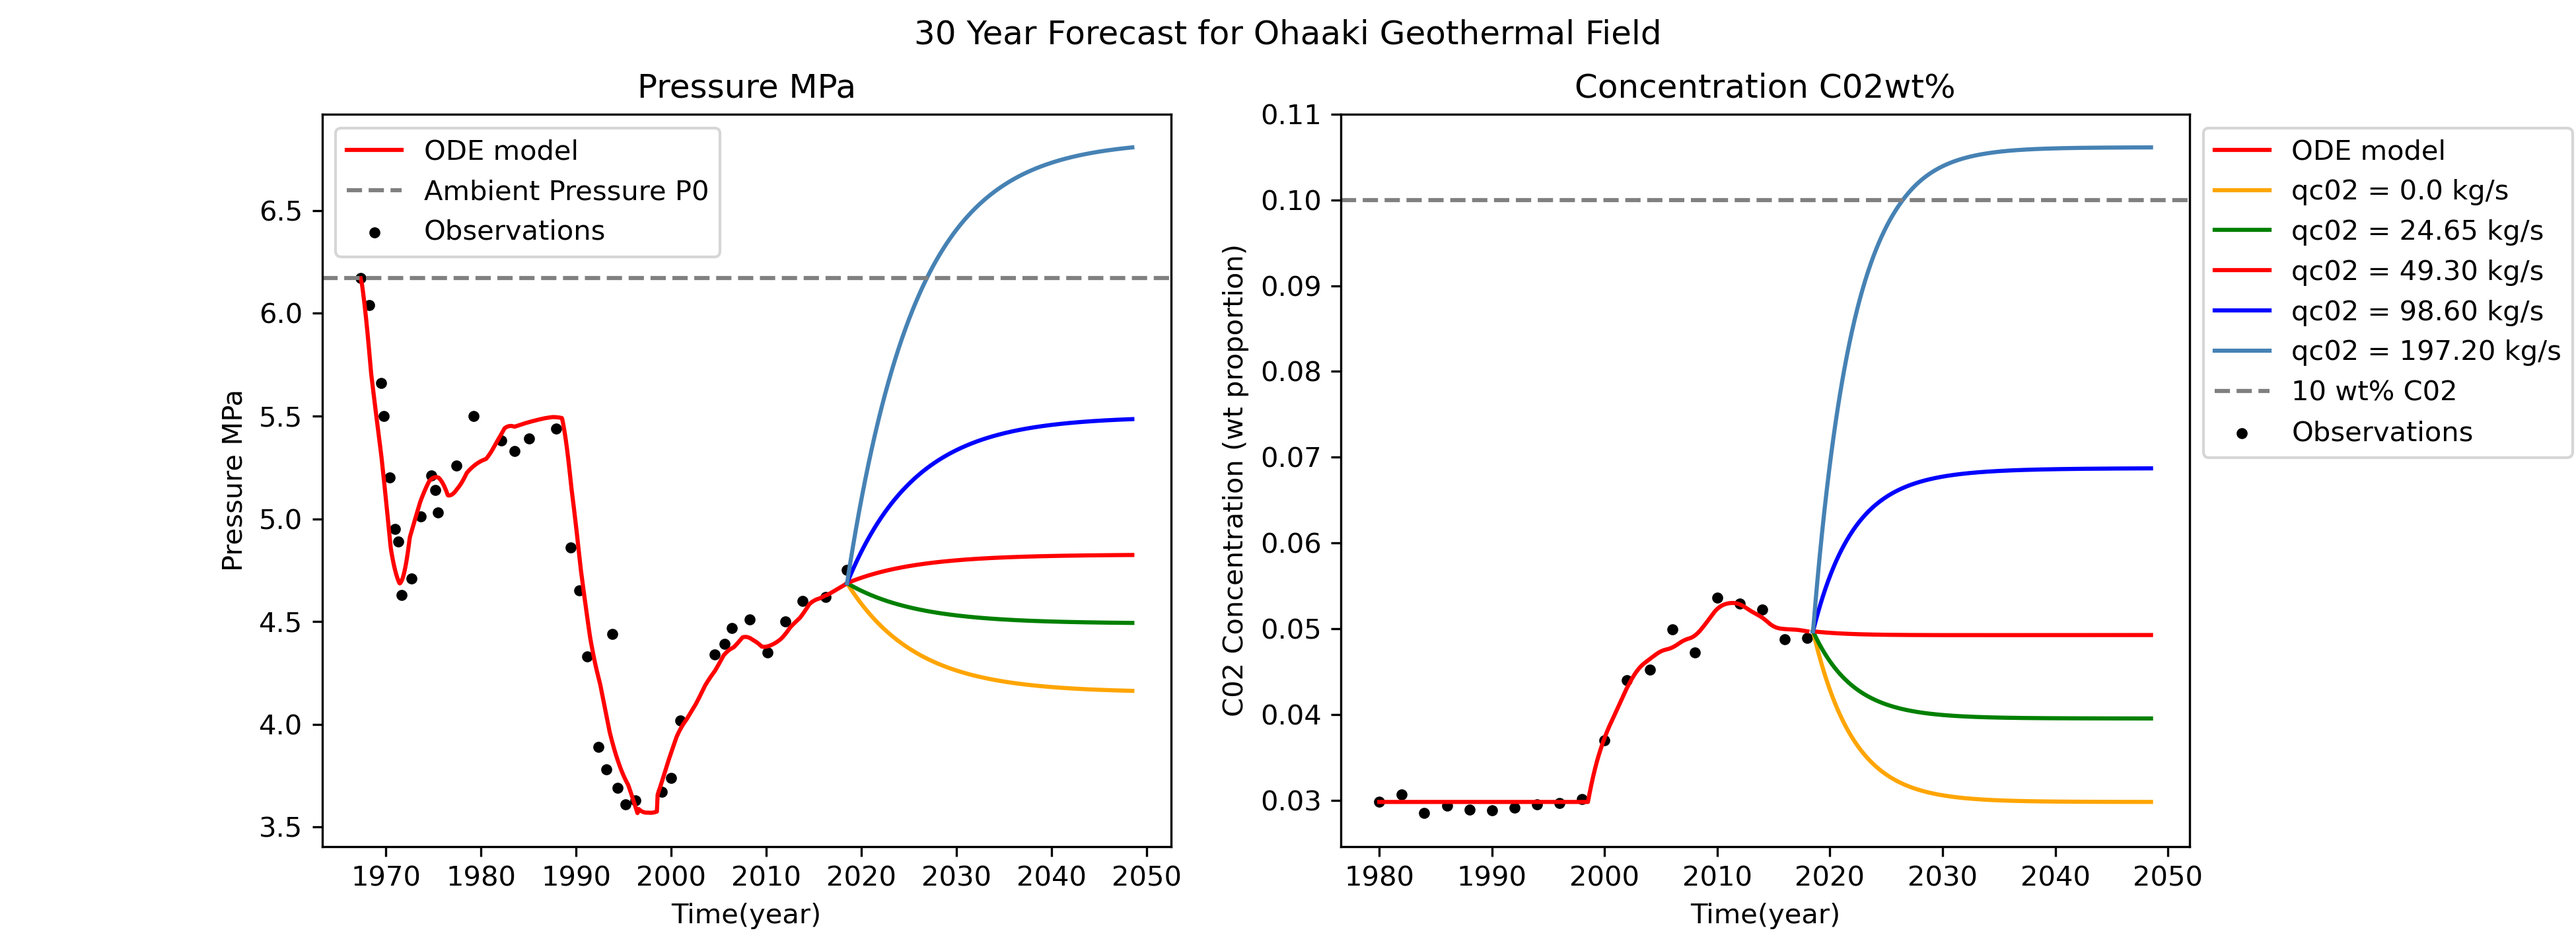
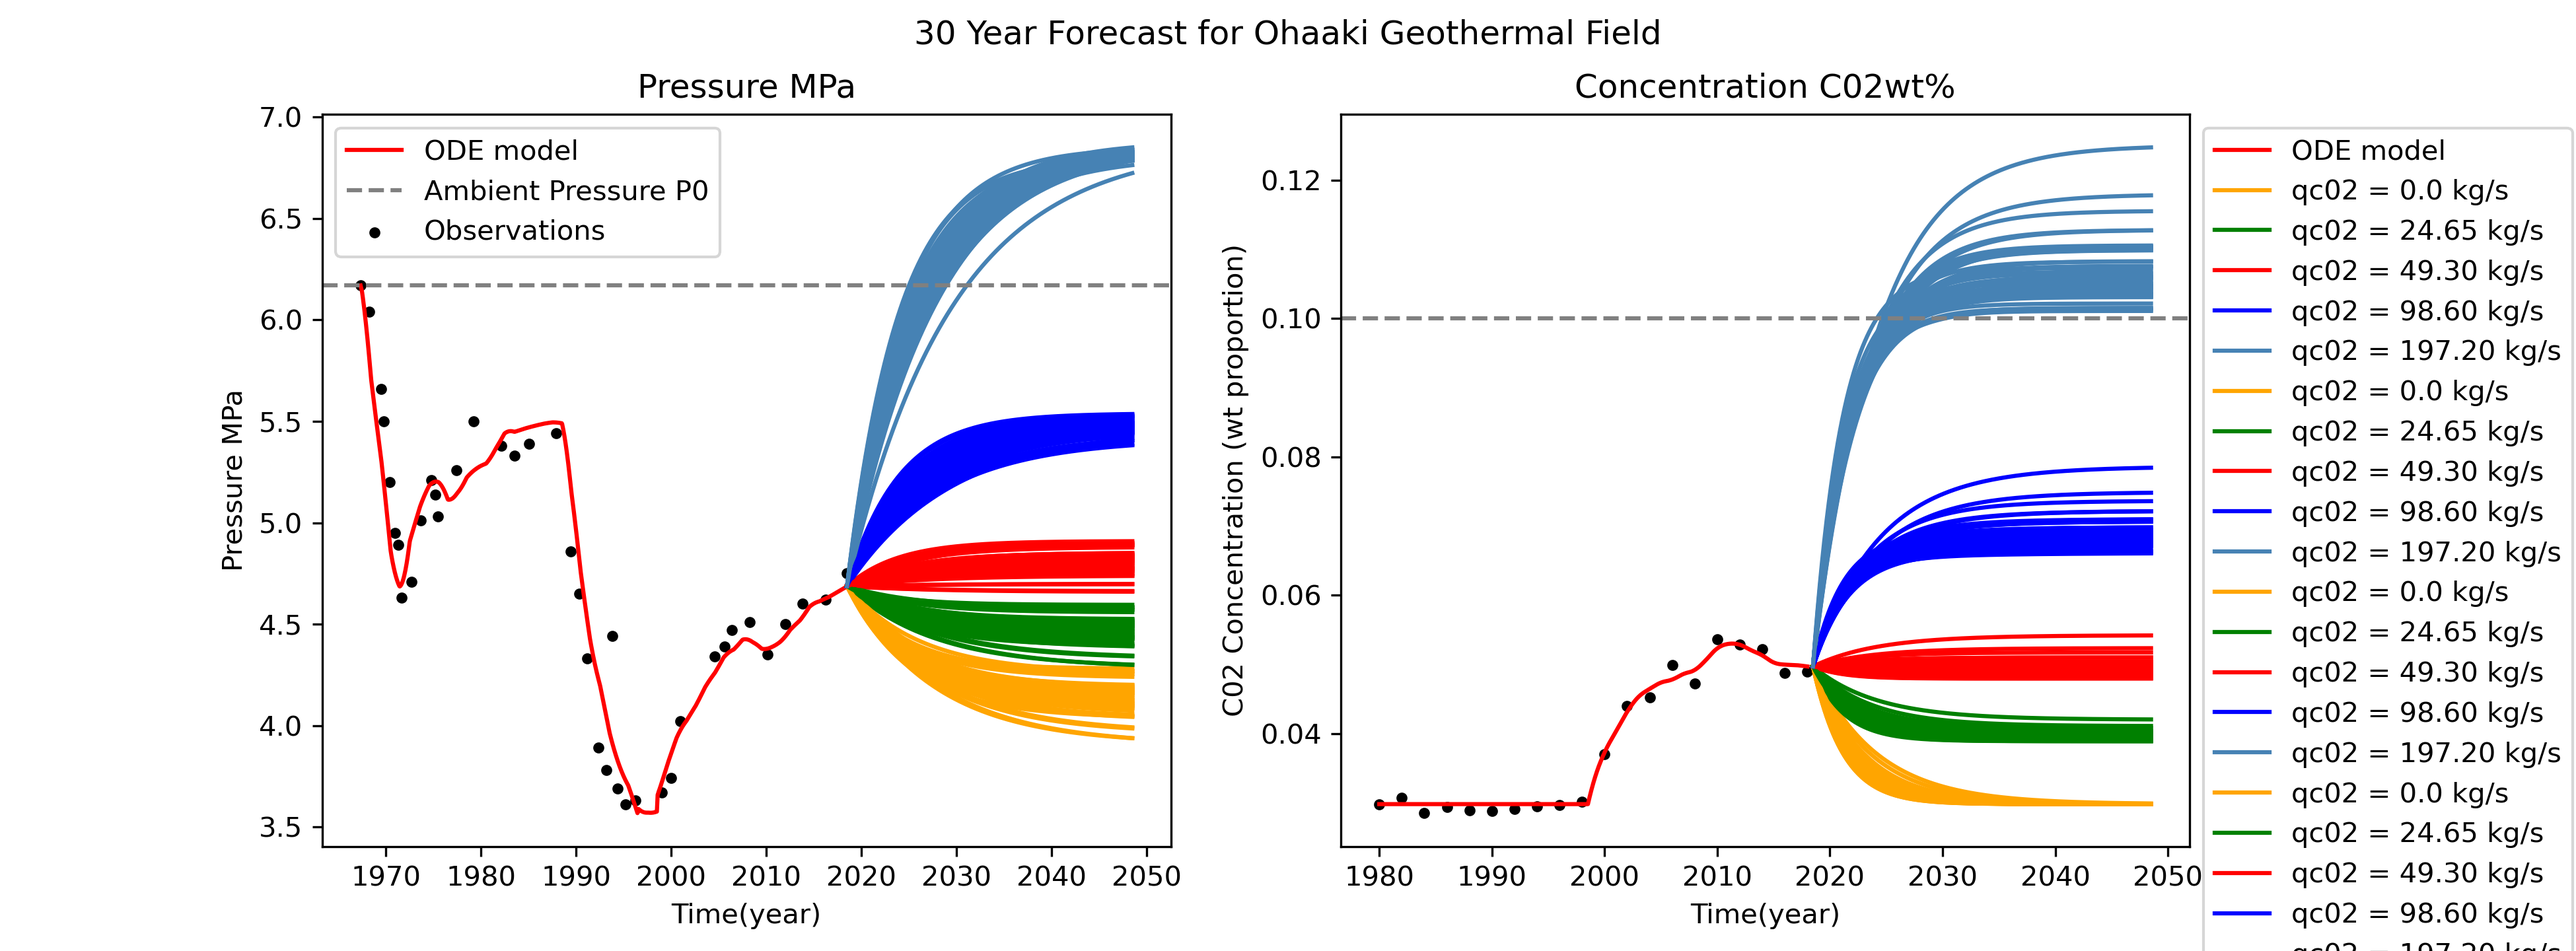
Added first uncertanity forecasting

diff --git a/project_1/uncertainty.py b/project_1/uncertainty.py
@@ -101,6 +101,11 @@ def construct_samples_conc(d,m0, C, N_samples):
     #plot_samples3D(a,b,c,P,samples)
 
     return samples
+def construct_all_samples(N_samples):
+    samples_conc = np.random.multivariate_normal(mean_conc, conc_covar, N_samples)
+    samples_p = np.random.multivariate_normal(mean, covariance, N_samples)
+    samples = np.append(samples_conc, samples_p, 1)
+    return samples
 
 def model_emsemble_pressure(samples):
 
@@ -216,7 +221,7 @@ def forecast_ensemble(samples):
     tc_ode, c_ode = solve_conc_ode(conc_ODE_model, TIME_C[0], CONC[0], TIME_C[-1], STEP, PRESSURE[0], PARS_C)
     p2, = ax2.plot(tc_ode, c_ode, color = 'r', label = "ODE model")
     ax2.scatter(TIME_C, CONC, color = 'k', s= 9, label ="Observations")
-    
+
     # Set up paramters for forecast
     endTime = TIME_P[-1] + 30                     # 30 years projection
     nt = int(np.ceil((endTime-TIME_P[-1])/STEP))	# compute number of Euler steps to take
@@ -231,14 +236,15 @@ def forecast_ensemble(samples):
     injRates = [0., 0.5, 1., 2., 4.] #different injection rate multipliers
     colours = ['orange', 'green', 'red', 'blue', 'slategrey'] #for graph
     labels = ['qc02 = 0.0 kg/s', 'qc02 = %.2f kg/s',  'qc02 = %.2f kg/s ','qc02 = %.2f kg/s ','qc02 = %.2f kg/s'] #for graph
-    
-    for i in range(len(injRates)):
-        for a, b, c in samples:
-            q_net = q_prod[-1] - (q_inj[-1])*injRates[i]
-            q_newInj = (q_inj[-1])*injRates[i]
-            t, p, co2 = get_p_conc_forecast(ts, [a,b,d,m0], [a,b,c], p_ode[-1], c_ode[-1], q_net, q_newInj)
-            ax1.plot(t, p, color=colours[i], alpha=0.1)
-            ax2.plot(t, co2, color=colours[i], alpha=0.1)
+    for d, m0, a, b, c in samples:
+        pars_c = [a,b,d,m0]
+        pars_p = [a,b, c]
+        for i in range(len(injRates)):
+                q_net = q_prod[-1] - (q_inj[-1])*injRates[i]
+                q_newInj = (q_inj[-1])*injRates[i]
+                t, p, co2 = get_p_conc_forecast(ts, [a,b,d,m0], [a,b,c], p_ode[-1], c_ode[-1], q_net, q_newInj)
+                ax1.plot(t, p, color=colours[i], alpha=0.1)
+                ax2.plot(t, co2, color=colours[i], alpha=0.1)
 
     ax2.axhline(0.10, linestyle = "--", color = 'crimson', label = '10 wt% C02' )    #ax1.axvline(t_ode[calibrationPointP], linestyle = '--', label = 'Calibration Point')
     ax1.axhline(PRESSURE[0], linestyle = "--", color = 'orange', label = 'Ambient Pressure P0')
@@ -254,21 +260,15 @@ if __name__ == "__main__":
 
 
     a,b,c,P = grid_search()
-<<<<<<< HEAD
     d, m0, C = grid_search_conc()
     samples_pressure = construct_samples_pressure(a,b,c,P,100)
     #model_emsemble_pressure(samples_pressure)
     samples_conc = construct_samples_conc(d,m0,C,100)
 
-=======
-    samples = construct_samples(a,b,c,P,50)
-    model_emsemble(samples)
-    forecast_ensemble(samples)
-    
->>>>>>> bc33768d063f1d9f536aaf9e01e4d6320639bd2e
+
+
 
     samples = np.append(samples_conc, samples_pressure, 1)
 
-    print(samples)
     #model_emsemble_concentration(samples)
     model_emsemble_forecast(samples)

diff --git a/project_1/plot_lpm.py b/project_1/plot_lpm.py
@@ -8,6 +8,7 @@ from load_data import *
 from lpm_model_functions import *
 from mpl_toolkits.mplot3d import Axes3D
 from matplotlib import cm
+from uncertainty import *
 
 ## Define global Variables
 TIME_P, PRESSURE = load_pressure_data()
@@ -465,13 +466,16 @@ def plot_uncertainty_forecast():
     injRates = [0., 0.5, 1., 2., 4.] #different injection rate multipliers
     colours = ['orange', 'green', 'red', 'blue', 'steelblue'] #for graph
     labels = ['qc02 = 0.0 kg/s', 'qc02 = %.2f kg/s',  'qc02 = %.2f kg/s ','qc02 = %.2f kg/s ','qc02 = %.2f kg/s'] #for graph
-
-    for i in range(len(injRates)):
-        q_net = q_prod[-1] - (q_inj[-1])*injRates[i]
-        q_newInj = (q_inj[-1])*injRates[i]
-        t, p, c = get_p_conc_forecast(ts, PARS_C, PARS_P, p_ode[-1], c_ode[-1], q_net, q_newInj)
-        ax1.plot(t, p, color=colours[i])
-        ax2.plot(t, c, color=colours[i], label = labels[i] %(q_newInj))
+    samples = construct_all_samples(50)
+    for d, m0, a, b, c in samples:
+        pars_c = [a, b, d, m0]
+        pars_p = [a, b,c]
+        for i in range(len(injRates)):
+            q_net = q_prod[-1] - (q_inj[-1])*injRates[i]
+            q_newInj = (q_inj[-1])*injRates[i]
+            t, p, c = get_p_conc_forecast(ts, pars_c, pars_p, p_ode[-1], c_ode[-1], q_net, q_newInj)
+            ax1.plot(t, p, color=colours[i])
+            ax2.plot(t, c, color=colours[i], label = labels[i] %(q_newInj))
 
     ax2.axhline(0.10, linestyle = "--", color = 'grey', label = '10 wt% C02' )    #ax1.axvline(t_ode[calibrationPointP], linestyle = '--', label = 'Calibration Point')
     ax1.axhline(PRESSURE[0], linestyle = "--", color = 'grey', label = 'Ambient Pressure P0')
